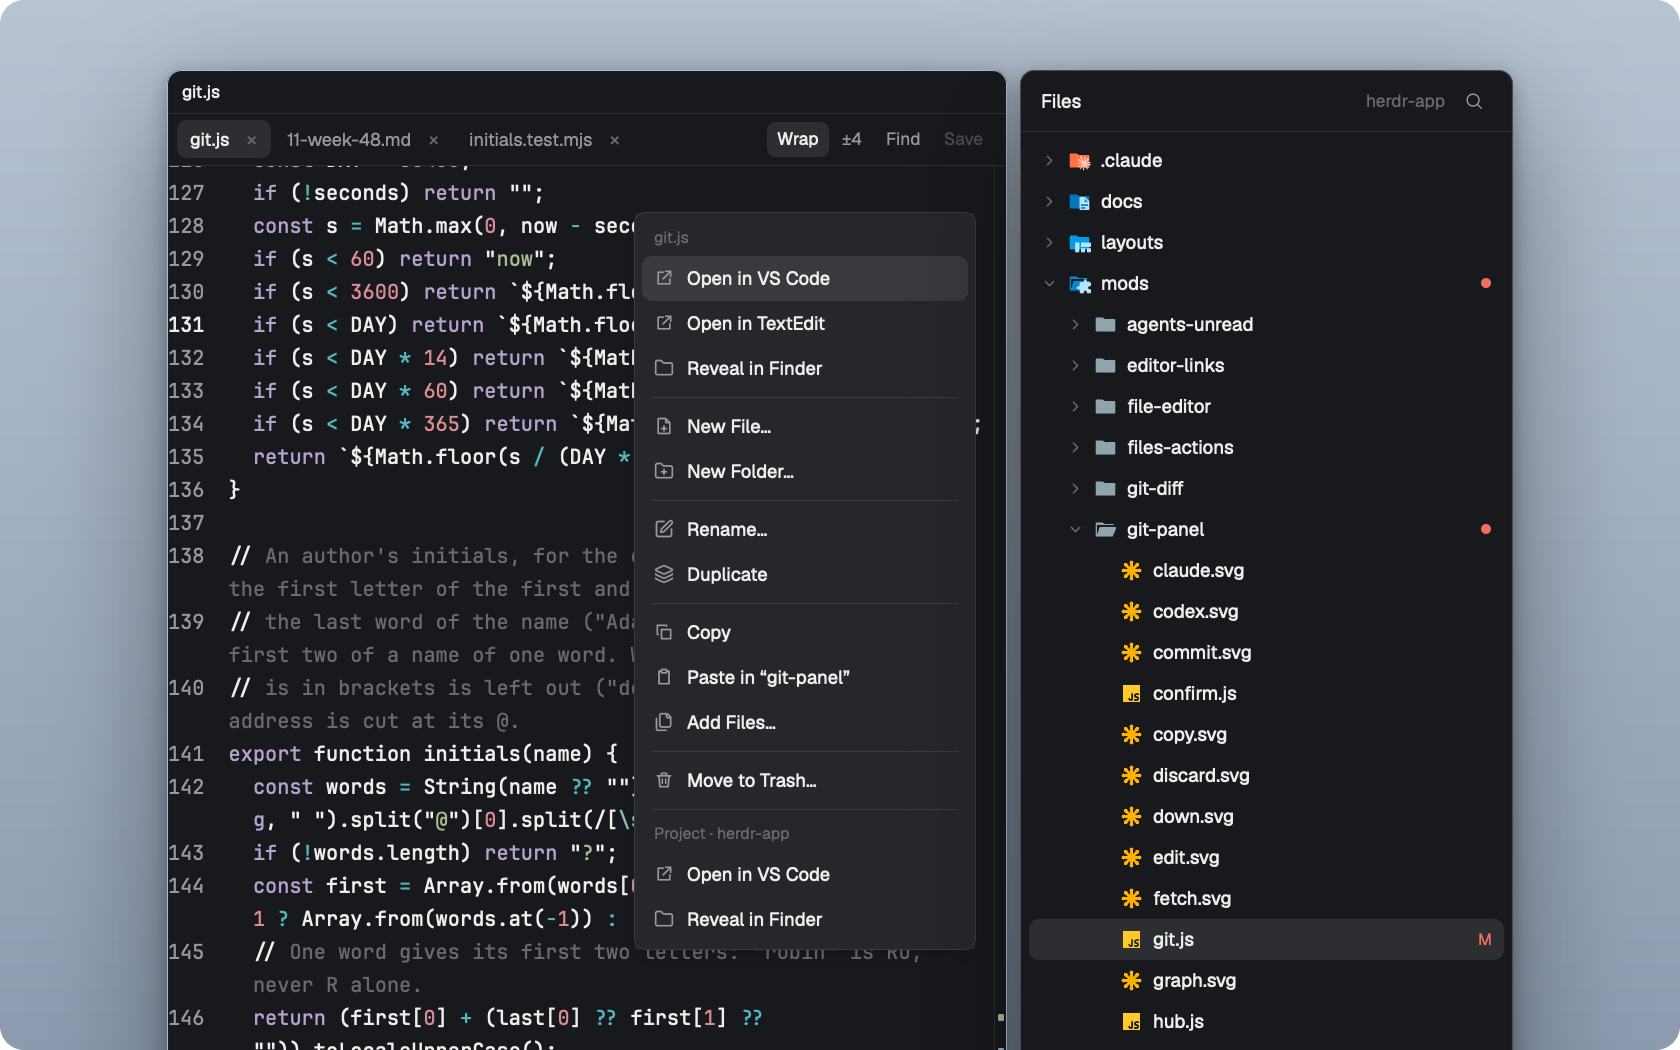
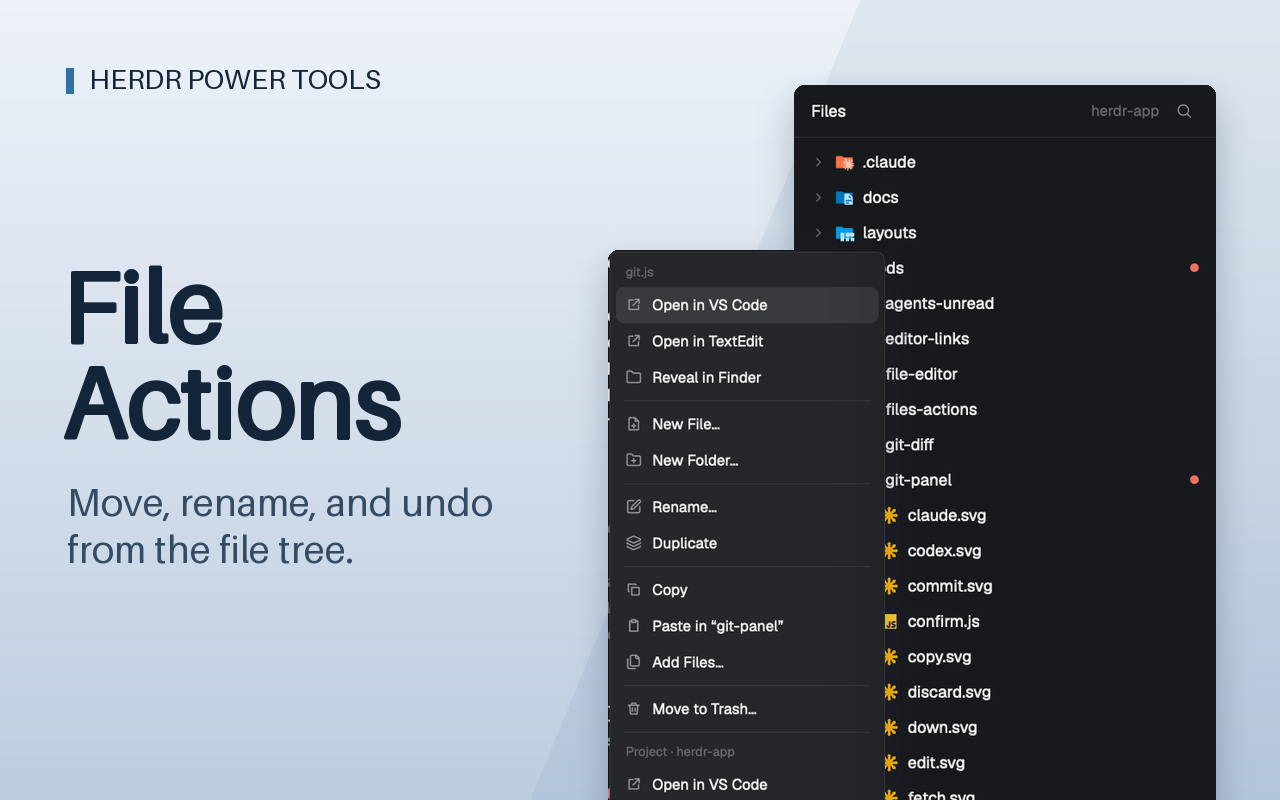
feat(gallery): title each feature thumbnail

diff --git a/docs/gallery.py b/docs/gallery.py
@@ -5,7 +5,7 @@ import json
 import subprocess
 from pathlib import Path
 
-from PIL import Image
+from PIL import Image, ImageDraw, ImageFilter, ImageFont
 
 
 ROOT = Path(__file__).resolve().parents[1]
@@ -23,6 +23,60 @@ FEATURES = {
     "hide-names": ["tabs-names", "pane-names", "status-names"],
 }
 PICTURES = {"agent-usage": "usage", "agent-inbox": "unread-agents", "git-graph": "git-panel"}
+
+
+def wrap_text(text, face, width):
+    lines = []
+    for word in text.split():
+        if lines and face.getlength(lines[-1] + " " + word) <= width:
+            lines[-1] += " " + word
+        else:
+            lines.append(word)
+    return lines
+
+
+def gallery_card(screenshot, title, spec):
+    """Make a 16:10 gallery cover from the published demo screenshot and its recipe title."""
+    size = (1280, 800)
+    ramp = Image.linear_gradient("L").resize(size)
+    canvas = Image.composite(Image.new("RGB", size, "#bdcde0"), Image.new("RGB", size, "#edf2f8"), ramp)
+    draw = ImageDraw.Draw(canvas, "RGBA")
+    draw.polygon([(860, 0), (1280, 0), (1280, 800), (530, 800)], fill=(77, 111, 156, 22))
+    for shot in spec["shots"]:
+        x, y, w, h = shot["crop"]
+        if x < 0 or y < 0 or x + w > screenshot.width or y + h > screenshot.height:
+            raise ValueError(f"{title} crop falls outside its screenshot")
+        width = shot["width"]
+        panel = screenshot.crop((x, y, x + w, y + h)).convert("RGB")
+        panel = panel.resize((width, round(h * width / w)), Image.Resampling.LANCZOS)
+        mask = Image.new("L", panel.size)
+        ImageDraw.Draw(mask).rounded_rectangle((0, 0, panel.width - 1, panel.height - 1), 10, fill=255)
+        px, py = shot["at"]
+        shadow = Image.new("L", size)
+        shadow.paste(mask.point(lambda v: v * 74 // 255), (px, py + 16))
+        canvas.paste("#283449", (0, 0), shadow.filter(ImageFilter.GaussianBlur(17)))
+        canvas.paste(panel, (px, py), mask)
+
+    # Pillow ships this typeface with its wheel so checks use the same lettering on each OS.
+    label = ImageFont.load_default(size=28)
+    heading = ImageFont.load_default(size=101)
+    body = ImageFont.load_default(size=38)
+    ink = "#142539"
+    draw = ImageDraw.Draw(canvas)
+    draw.rectangle((66, 68, 73, 93), fill="#3071a4")
+    draw.text((89, 70), "HERDR POWER TOOLS", font=label, fill=ink, anchor="lt")
+
+    titles = wrap_text(title, heading, 490)
+    captions = wrap_text(spec["caption"], body, 456)
+    title_step, caption_step = 100, 47
+    height = len(titles) * title_step + 20 + len(captions) * caption_step
+    top = (size[1] - height) // 2 + 24
+    for i, line in enumerate(titles):
+        draw.text((63, top + i * title_step), line, font=heading, fill=ink, stroke_width=2, stroke_fill=ink, anchor="lt")
+    for i, line in enumerate(captions):
+        draw.text((67, top + len(titles) * title_step + 20 + i * caption_step), line,
+                  font=body, fill="#344c63", anchor="lt")
+    return canvas
 
 
 def tracked(*paths):
@@ -57,6 +111,7 @@ def main():
     parser.add_argument("--check", action="store_true", help="report stale gallery files without writing")
     check = parser.parse_args().check
     keys = json.loads((ROOT / "keys.json").read_text())
+    cards = json.loads((ROOT / "docs/gallery-cards.json").read_text())
     changed = []
     expected = set()
 
@@ -70,10 +125,14 @@ def main():
             dest.parent.mkdir(parents=True, exist_ok=True)
             dest.write_bytes(data)
 
-    def preview(folder, name):
+    def preview(folder, name, card=None):
         path = folder / "preview.png"
         dest = ROOT / path
-        with Image.open(ROOT / "docs" / "images" / (name + ".webp")) as image:
+        with Image.open(ROOT / "docs" / "images" / (name + ".webp")) as screenshot:
+            image = screenshot
+            if card:
+                title = (ROOT / folder / "RECIPE.md").read_text().splitlines()[0].removeprefix("# ")
+                image = gallery_card(screenshot, title, card)
             if dest.is_file():
                 with Image.open(dest) as old:
                     if old.format == "PNG" and old.size == image.size and old.mode == image.mode and old.tobytes() == image.tobytes():
@@ -95,7 +154,7 @@ def main():
         bindings = feature_keys(feature, mods, keys)
         if bindings:
             put(folder / "keys.json", (json.dumps(bindings, indent=2) + "\n").encode())
-        preview(folder, PICTURES.get(feature, feature))
+        preview(folder, PICTURES.get(feature, feature), cards[feature])
 
     # Only remove previously published, generated files that have lost their source.
     for path in tracked("packages/*/mods/**", "packages/*/keys.json"):

diff --git a/AGENTS.override.md b/AGENTS.override.md
@@ -31,7 +31,7 @@ Everything not listed here is Herdr's and is replaced on every start.
 - **Keep the notes true.** A change to what a mod does, to where its state lives or to something under its "Behavior to preserve" goes into its notes in the same change. A note about one mod goes in its file, not here; a new mod gets a file and a row in the table.
 - **Layout `main-folders`** (`layouts/main-folders.json`): a clone of Herdr's `main` (from version 0.1.18). The differences: its `spaces` block shows the mod `space-folders`, its `agents` block shows the mod `agent-inbox`, its `files` block shows the mod `files-actions` and its `changes` block shows the mod `git-graph` (the block keeps its id, so the tab bar's Changes button opens it); the panel's stack has a third child, `search`, which shows the mod `project-search`; the `work` column ends with `search-keys`, a block 0 px tall with a second copy of `project-search` that only takes a key; and its root has `link_handlers: ["editor-links"]` (Herdr added it when it first saw that mod). The sidebar has a block of its own between `brand` and `sidebar-lists`, `usage-side` (62 px, the mod `agent-usage` with props `{ role: "side" }`). Its `tabs` block shows the mod `tabs-names`, the tab block's pane frame has the header `pane-names`, and its `status` block shows `status-names` (each block keeps its id): Herdr's own, with hide names (see `docs/agents/hide-names.md`). The status bar has no usage figures: they were taken out, since the widget shows them. Its look adds, since 0.1.18: a `veil` of 0.3 on the tab block's pane frame (the panes you're not in fade, mod panes too) and an `accent` hover color on the root's divider.
 
-Gallery packages in `packages/` are built from the tracked mods, key bindings and sandbox screenshots. Edit the root mods and the individual `RECIPE.md` files. After changing a distributed file, run `python3 docs/gallery.py` and verify with `python3 docs/gallery.py --check`. Stage new mod files first so the builder sees them.
+Gallery packages in `packages/` are built from the tracked mods, key bindings and sandbox screenshots. Edit the root mods and the individual `RECIPE.md` files. The mod thumbnails take their titles from those recipes and their captions and screenshot crops from `docs/gallery-cards.json`. After changing a distributed file, run `python3 docs/gallery.py` and verify with `python3 docs/gallery.py --check`. Stage new mod files first so the builder sees them.
 
 ## Working here
 
